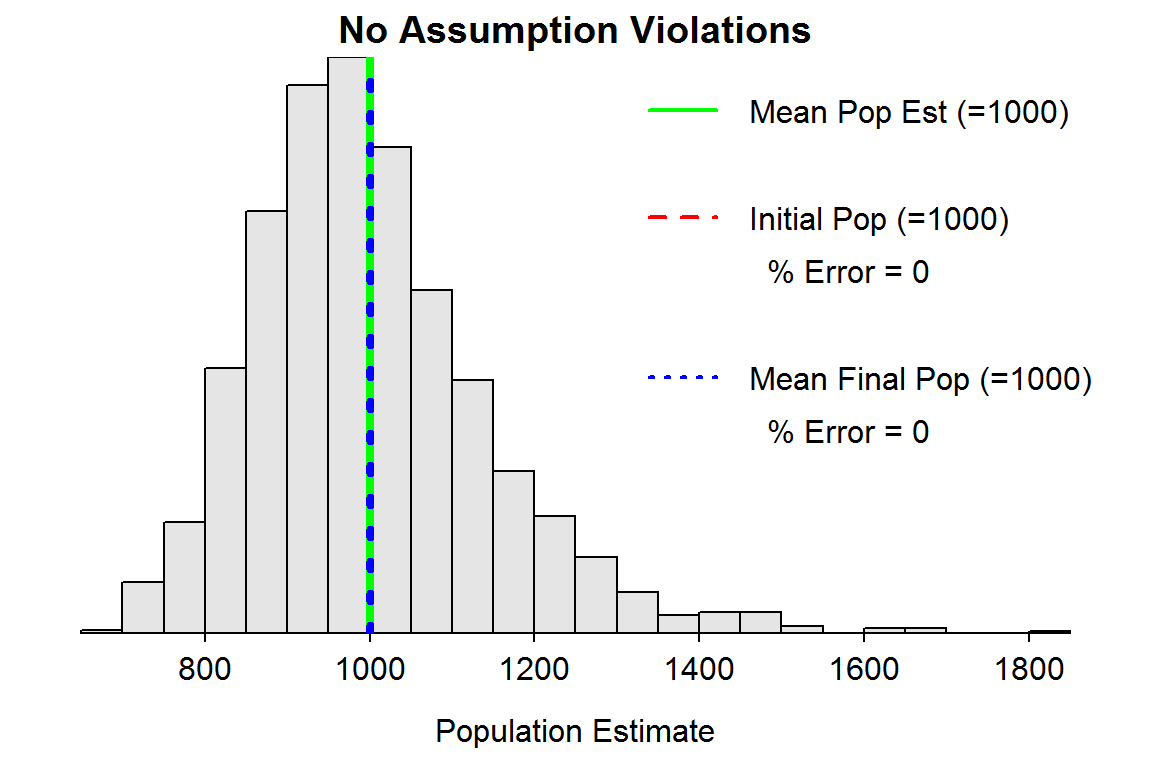
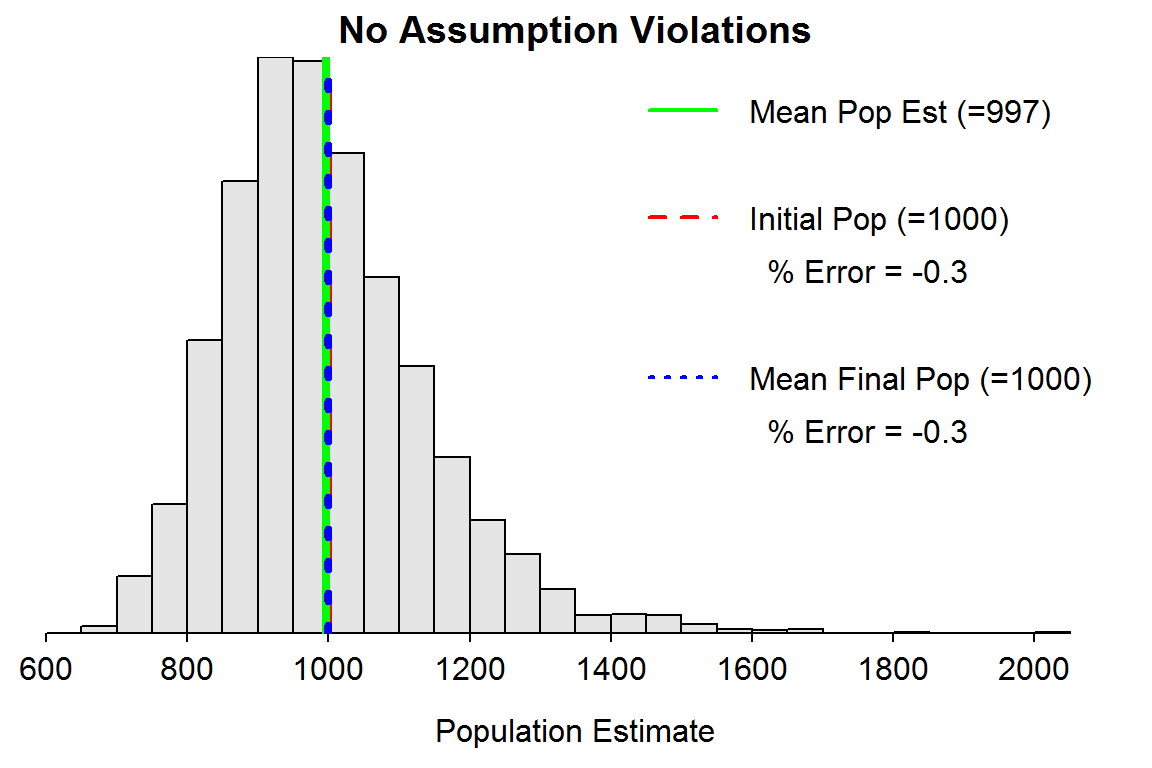
Updated MR CE2

diff --git a/modules/MarkRecap/CE2a.html b/modules/MarkRecap/CE2a.html
@@ -18,11 +18,11 @@ css: /css/modules.css
 <ul>
 <li><code>sim=</code> is used to select the type of simulation to use. Use <code>sim=&quot;distribution&quot;</code> (used on this page) to assess characteristics of the sampling distribution of the population abundance estimate. Use <code>sim=&quot;assumptions&quot;</code> (used on the next pages) to assess the effect of assumptions violations on the population abundance estimate.</li>
 <li><code>N=</code> is the known initial population size (default is <code>N=1000</code>).</li>
-<li><code>rsmpls=</code> is the number of simulations to run for each scenario (default is <code>rsmpls=5000</code>).</li>
+<li><code>rsmpls=</code> is the number of simulations to run for each scenario (default is <code>rsmpls=2000</code>).</li>
 </ul>
 <p>After calling the function with <code>sim=&quot;distribution&quot;</code> a histogram will appear for the estimated population abundance for each of the <code>rsmpls</code> simulations. The histogram is augmented with a red vertical line at the known initial population size (<code>N</code>) and a green vertical line at the mean estimated population abundance from all <code>rsmpls</code> runs. The histogram is also labeled with the percentage error of the mean population abundace estimate from the known population abundance (positive numbers mean that the known population abundance was overestimated, on average).</p>
 <pre class="r"><code>&gt; mrClosed1Sim(sim=&quot;distribution&quot;)</code></pre>
-<p><img src="CE2_files/figure-html/unnamed-chunk-3-1.png" width="576" /></p>
+<p><img src="CE2a_files/figure-html/unnamed-chunk-3-1.png" width="576" /></p>
 <p>For example, the plot above shows that the sampling distribution for the population abundance estimates is right-skewed. In addition, the population abundance estimate is biased because the mean population abundance estimate is greater than the known initial population abundance (the green line is greater than the red line). The bias is an overestimate by 2.2%. In addition, an approximate 95% confidence interval for the population abundance estimate is from 784 to 1379.</p>
 <p>In RStudio, this plot will have a gear icon in the upper-left corner that will open a dialog box that allows you to change the estimation <code>Method</code> (default is <code>Petersen</code>), expected number of fish to tag on the first sample (<code>Marked (M)</code> slider), and the expected number of fish to capture on the second sample (<code>Captured (n)</code> slider). Moving a slider or pressing the <code>Rerandomize</code> button will force another set of <code>rsmpls</code> to be constructed.</p>
 <p> </p>
@@ -30,7 +30,7 @@ css: /css/modules.css
 </div>
 <div id="questions-i-biases" class="section level4">
 <h4>Questions I – Biases?</h4>
-<p>Each simulation scenario below should be based on a known population size of <code>N=1000</code> individuals (the default), an expected number of marks of 100, and an expected number in the second sample of 100. Once the sliders have been set at the requested levels, the <code>Rerandomize</code> button should be pressed several times to ensure that any conclusions that you draw are not based on the results of a single set of random simulation runs.</p>
+<p>Each simulation scenario below should be based on a known population size of <code>N=1000</code> individuals (the default), an expected number of marks of 200, and an expected number in the second sample of 200. Once the sliders have been set at the requested levels, the <code>Rerandomize</code> button should be pressed several times to ensure that any conclusions that you draw are not based on the results of a single set of random simulation runs.</p>
 <ol>
 <li>Does the Petersen method under, over, or accurately estimate the initial population abundance?</li>
 <li>Does the Chapman modification method (need to change the “Method” choice) under, over, or accurately estimate the initial population abundance?</li>
@@ -48,7 +48,7 @@ css: /css/modules.css
 <li>Were there any combinations of values that produced an approximately normal sampling distribution? How does this relate to the general rules for computing confidence intervals for population abundance discussed in the readings?</li>
 <li>What happened to the width of the confidence interval as the size of the first sample increased (and the size of the second sample was held constant)?</li>
 <li>What happened to the width of the confidence interval as the size of the second sample increased (and the size of the first sample was held constant)?</li>
-<li>Suppose that you could only handle a total of 500 fish in the two days of sampling. How should you apportion your effort (what expected numbers of fish on the two days) to obtain the most precise (narrowest confidence interval) estimates of population abundance? Does this conclusion generalize to other total sample sizes (e.g., 300 or 400 total fish on the two days)?</li>
+<li>Suppose that you could only handle a total of 500 fish in the two days of sampling. How should you apportion your effort (expected numbers of fish on the two days) to obtain the most precise (narrowest confidence interval) estimates of population abundance? Does this conclusion generalize to other total sample sizes (e.g., 300 or 400 total fish on the two days)?</li>
 <li>What assumptions about field work (i.e., catching and tagging fish) is being made in the previous question? Is this realistic? Explain. How would you incorporate a more realistic scenario into determining how to apportion your effort.</li>
 </ol>
 <hr />

diff --git a/modules/MarkRecap/CE2b.html b/modules/MarkRecap/CE2b.html
@@ -52,7 +52,7 @@ css: /css/modules.css
 <a href="../../index.html">^</a>
 </li>
 <li>
-<a href="CE2.html">1</a>
+<a href="CE2a.html">1</a>
 </li>
 <li class="active">
 <a href="#">2</a>

diff --git a/modules/MarkRecap/CE2c.html b/modules/MarkRecap/CE2c.html
@@ -59,7 +59,7 @@ css: /css/modules.css
 <a href="../../index.html">^</a>
 </li>
 <li>
-<a href="CE2.html">1</a>
+<a href="CE2a.html">1</a>
 </li>
 <li>
 <a href="CE2b.html">2</a>

diff --git a/resources/Dates-Current.md b/resources/Dates-Current.md
@@ -7,7 +7,7 @@ css: /css/syllabus.css
 ## Assignment Due Dates
 <dl class="dl-horizontal">
 <dt>25-Jan</dt><dd>Mark-Recap HW <a href="http://derekogle.com/IFAR/exercises/MarkRecap_URBrownTrout.html">#1</a> and <a href="http://derekogle.com/IFAR/exercises/MarkRecap_UNSPRainbowTrout.html">#2</a></dd>
-<dt>25-Jan</dt><dd><a href="http://derekogle.com/NCNRS349/modules/Abundance/MarkRecap/CE2.html">Mark-Recap Class Exercise</a></dd>
+<dt>27-Jan</dt><dd><a href="http://derekogle.com/NCNRS349/modules/Abundance/MarkRecap/CE2.html">Mark-Recap Class Exercise</a></dd>
 
 
 
